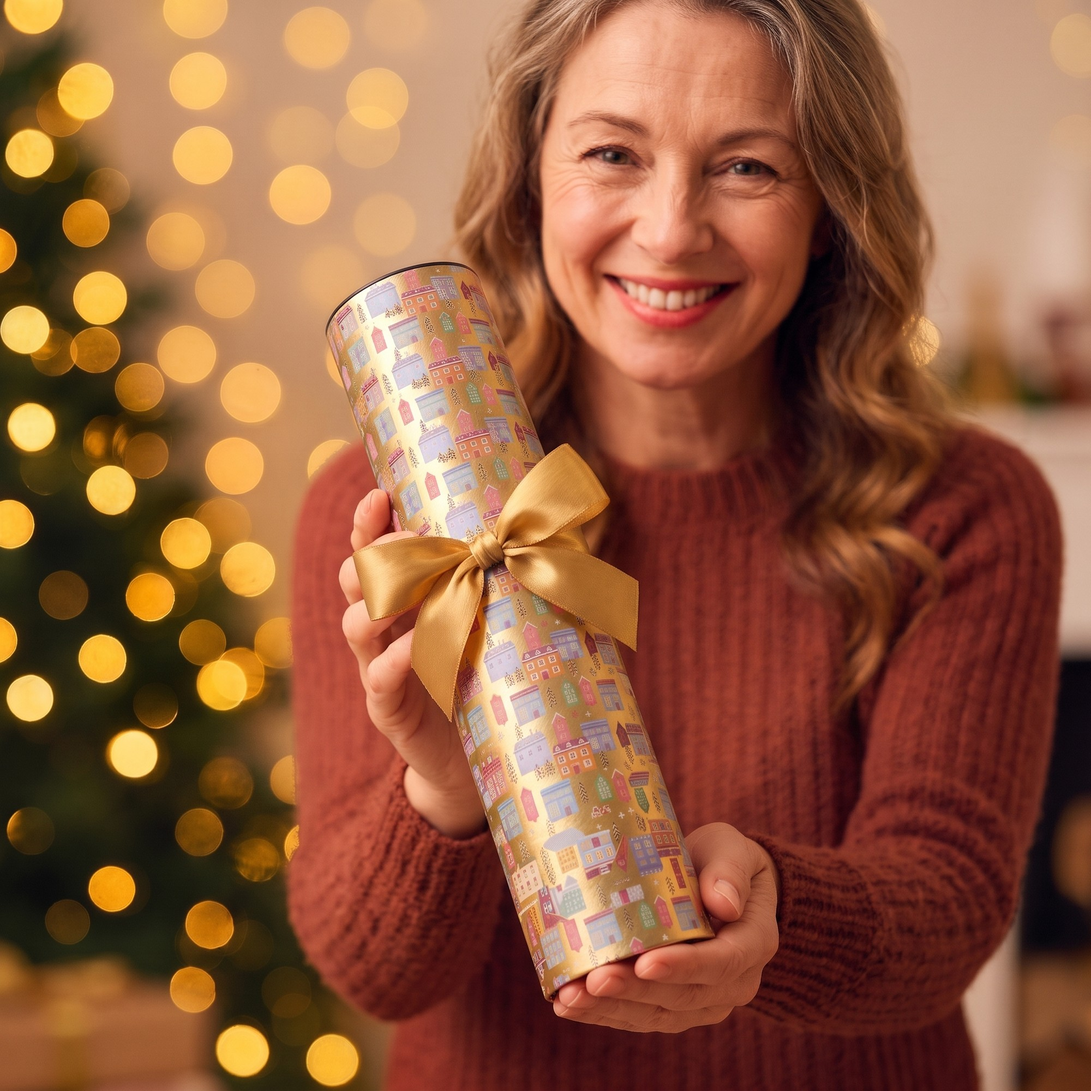
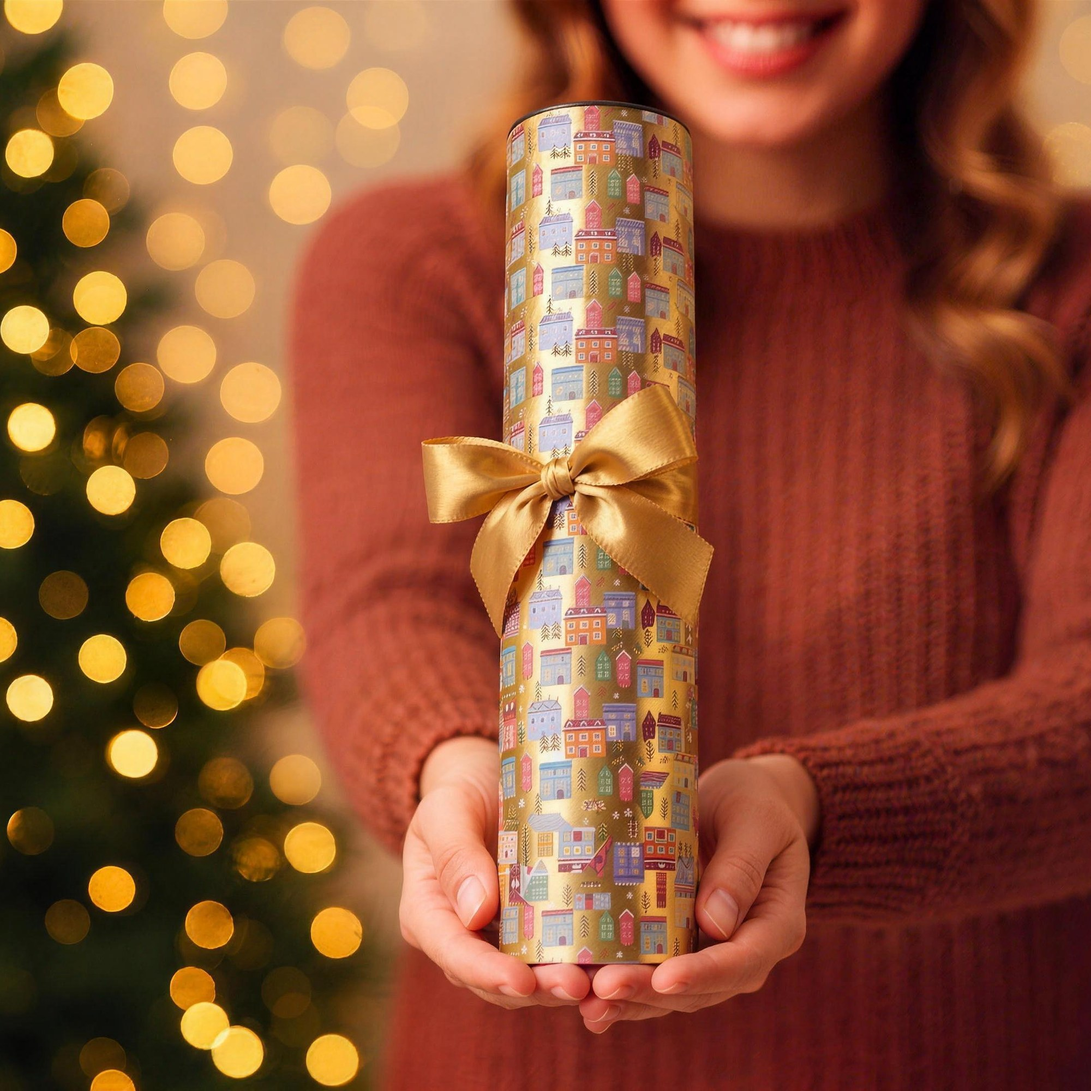
Žena so zlatým tubusom: späť na výrez z originálu (výber používateľa)
Claude-Session: https://claude.ai/code/session_01Y5PJrs9RnUsi22xdaqrMPo

diff --git a/web-klon/produkty/VIZUALY-vianoce-2026.md b/web-klon/produkty/VIZUALY-vianoce-2026.md
@@ -38,7 +38,7 @@
 1. `fotky/hero.jpg` – hero (priečinok hero images)
 2. `fotky/galeria-01.jpg` ← Silwer_GOLD_zelena_4x5_1536x1920 (1).png
 3. `fotky/galeria-02.jpg` ← gold zena scena iba produkty.png
-4. `fotky/galeria-03.jpg` ← Firefly … odstráň čierny uzáver (913187) → **13. 11. nahradené variantom #25** (pôvodne odrezaná tvár)
+4. `fotky/galeria-03.jpg` ← Firefly … odstráň čierny uzáver (913187) – štvorcový výrez priamo z originálu (13. 11., výber používateľa; variant #25 zamietnutý)
 
 ## Silwer Gold. Muž. (`/gold-muz-pecen-a-pokoj/`)
 1. `fotky/hero.jpg` – hero (priečinok hero images)
@@ -63,7 +63,7 @@
 ## Vianočný zlatý tubus (`/vianocny-zlaty-tubus/`)
 1. `fotky/hero.jpg` – hero (priečinok hero images)
 2. `fotky/galeria-01.jpg` ← Firefly … tubus urob o 20- vyšší (473363) (1:1 cez Higgsfield)
-3. `fotky/galeria-02.jpg` ← Firefly 913187 → **13. 11. nahradené variantom #24** (pôvodne odrezaná tvár)
+3. `fotky/galeria-02.jpg` ← Firefly 913187 – štvorcový výrez priamo z originálu (13. 11., výber používateľa; variant #24 zamietnutý)
 4. `fotky/galeria-03.jpg` ← Firefly … zaostri potlač tubusu (414896) (1:1 cez Higgsfield)
 
 ## Vianočná krabička (`/vianocna-krabicka/`)
